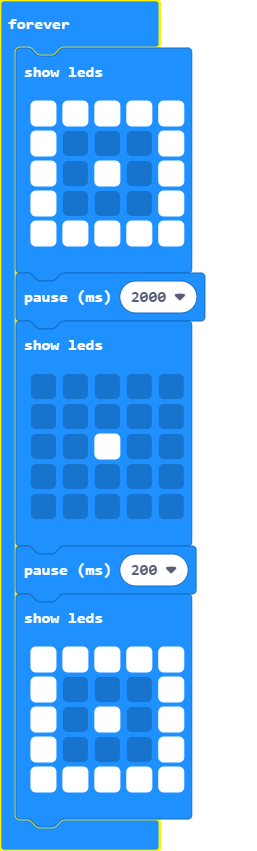
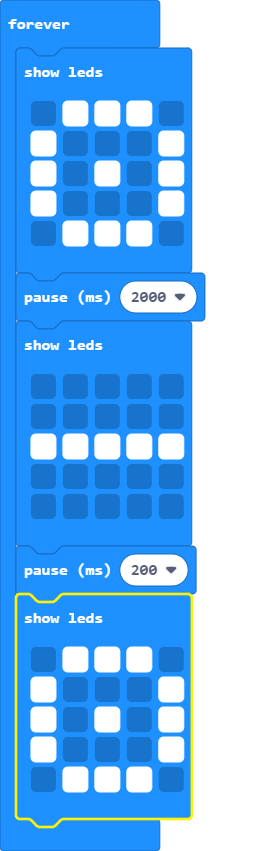
Update main.blocks, main.ts

diff --git a/main.ts b/main.ts
@@ -1,25 +1,25 @@
 basic.forever(function () {
     basic.showLeds(`
-        # # # # #
+        . # # # .
         # . . . #
         # . # . #
         # . . . #
-        # # # # #
+        . # # # .
         `)
     basic.pause(2000)
     basic.showLeds(`
         . . . . .
         . . . . .
-        . . # . .
+        # # # # #
         . . . . .
         . . . . .
         `)
     basic.pause(200)
     basic.showLeds(`
-        # # # # #
+        . # # # .
         # . . . #
         # . # . #
         # . . . #
-        # # # # #
+        . # # # .
         `)
 })
